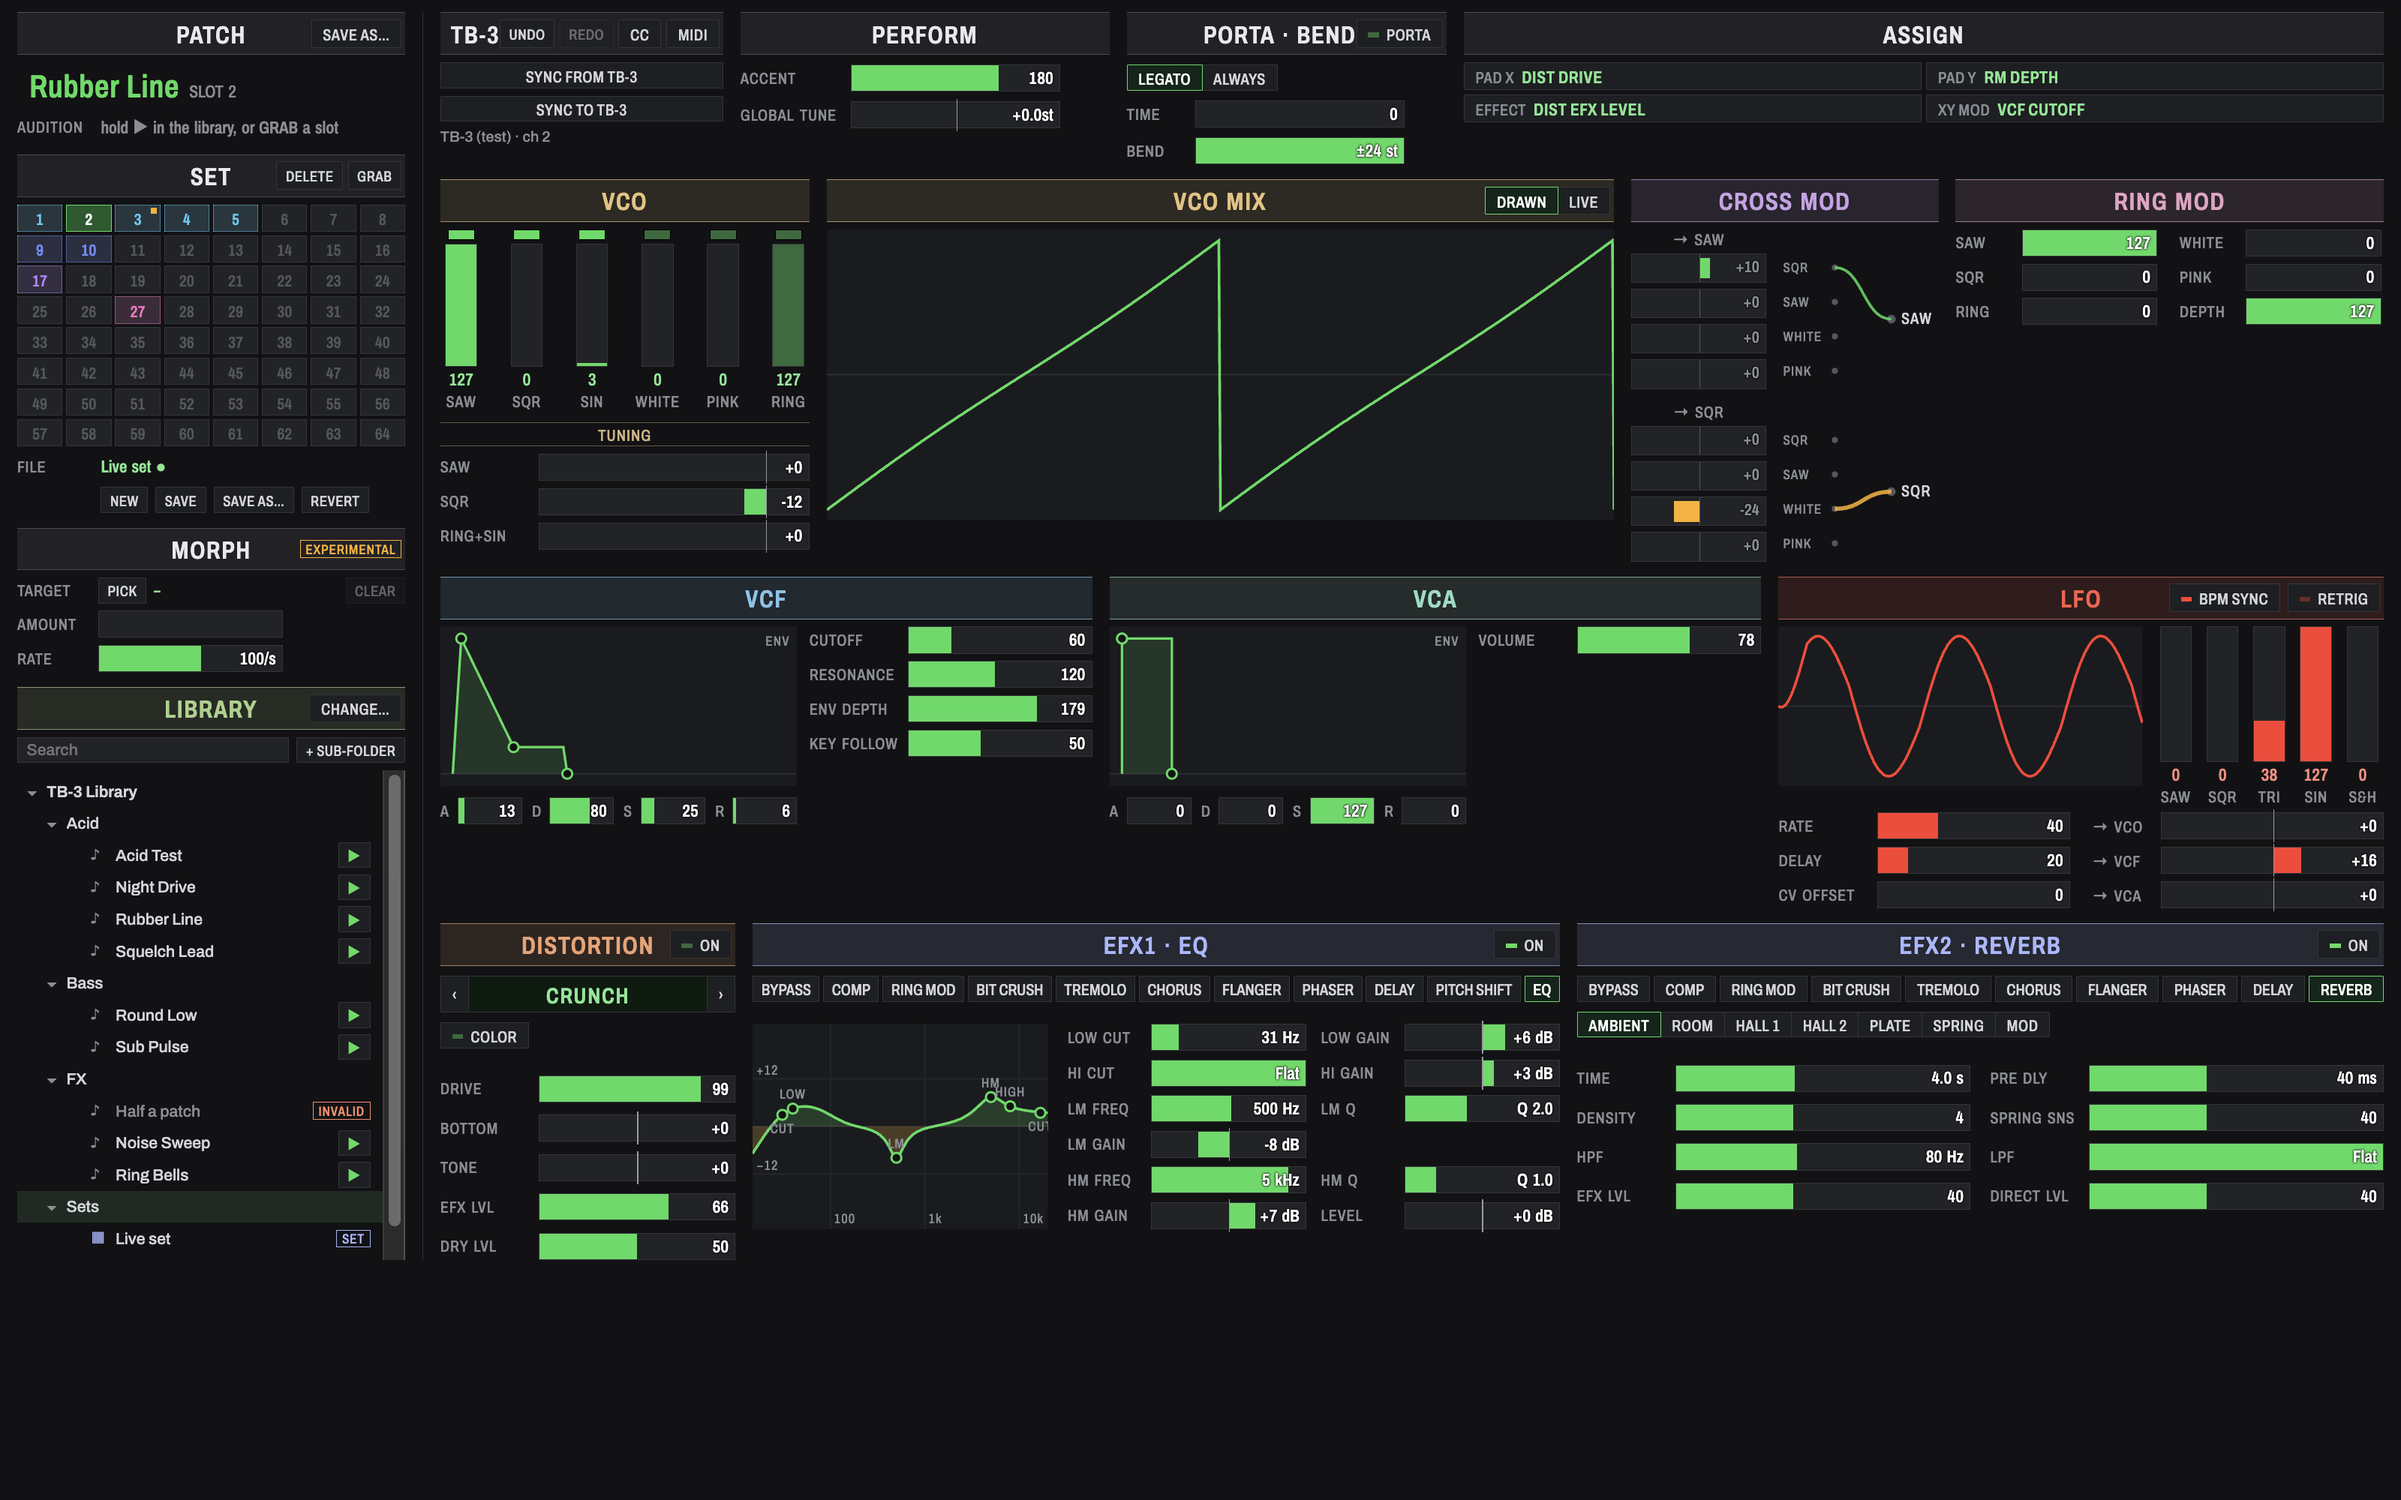
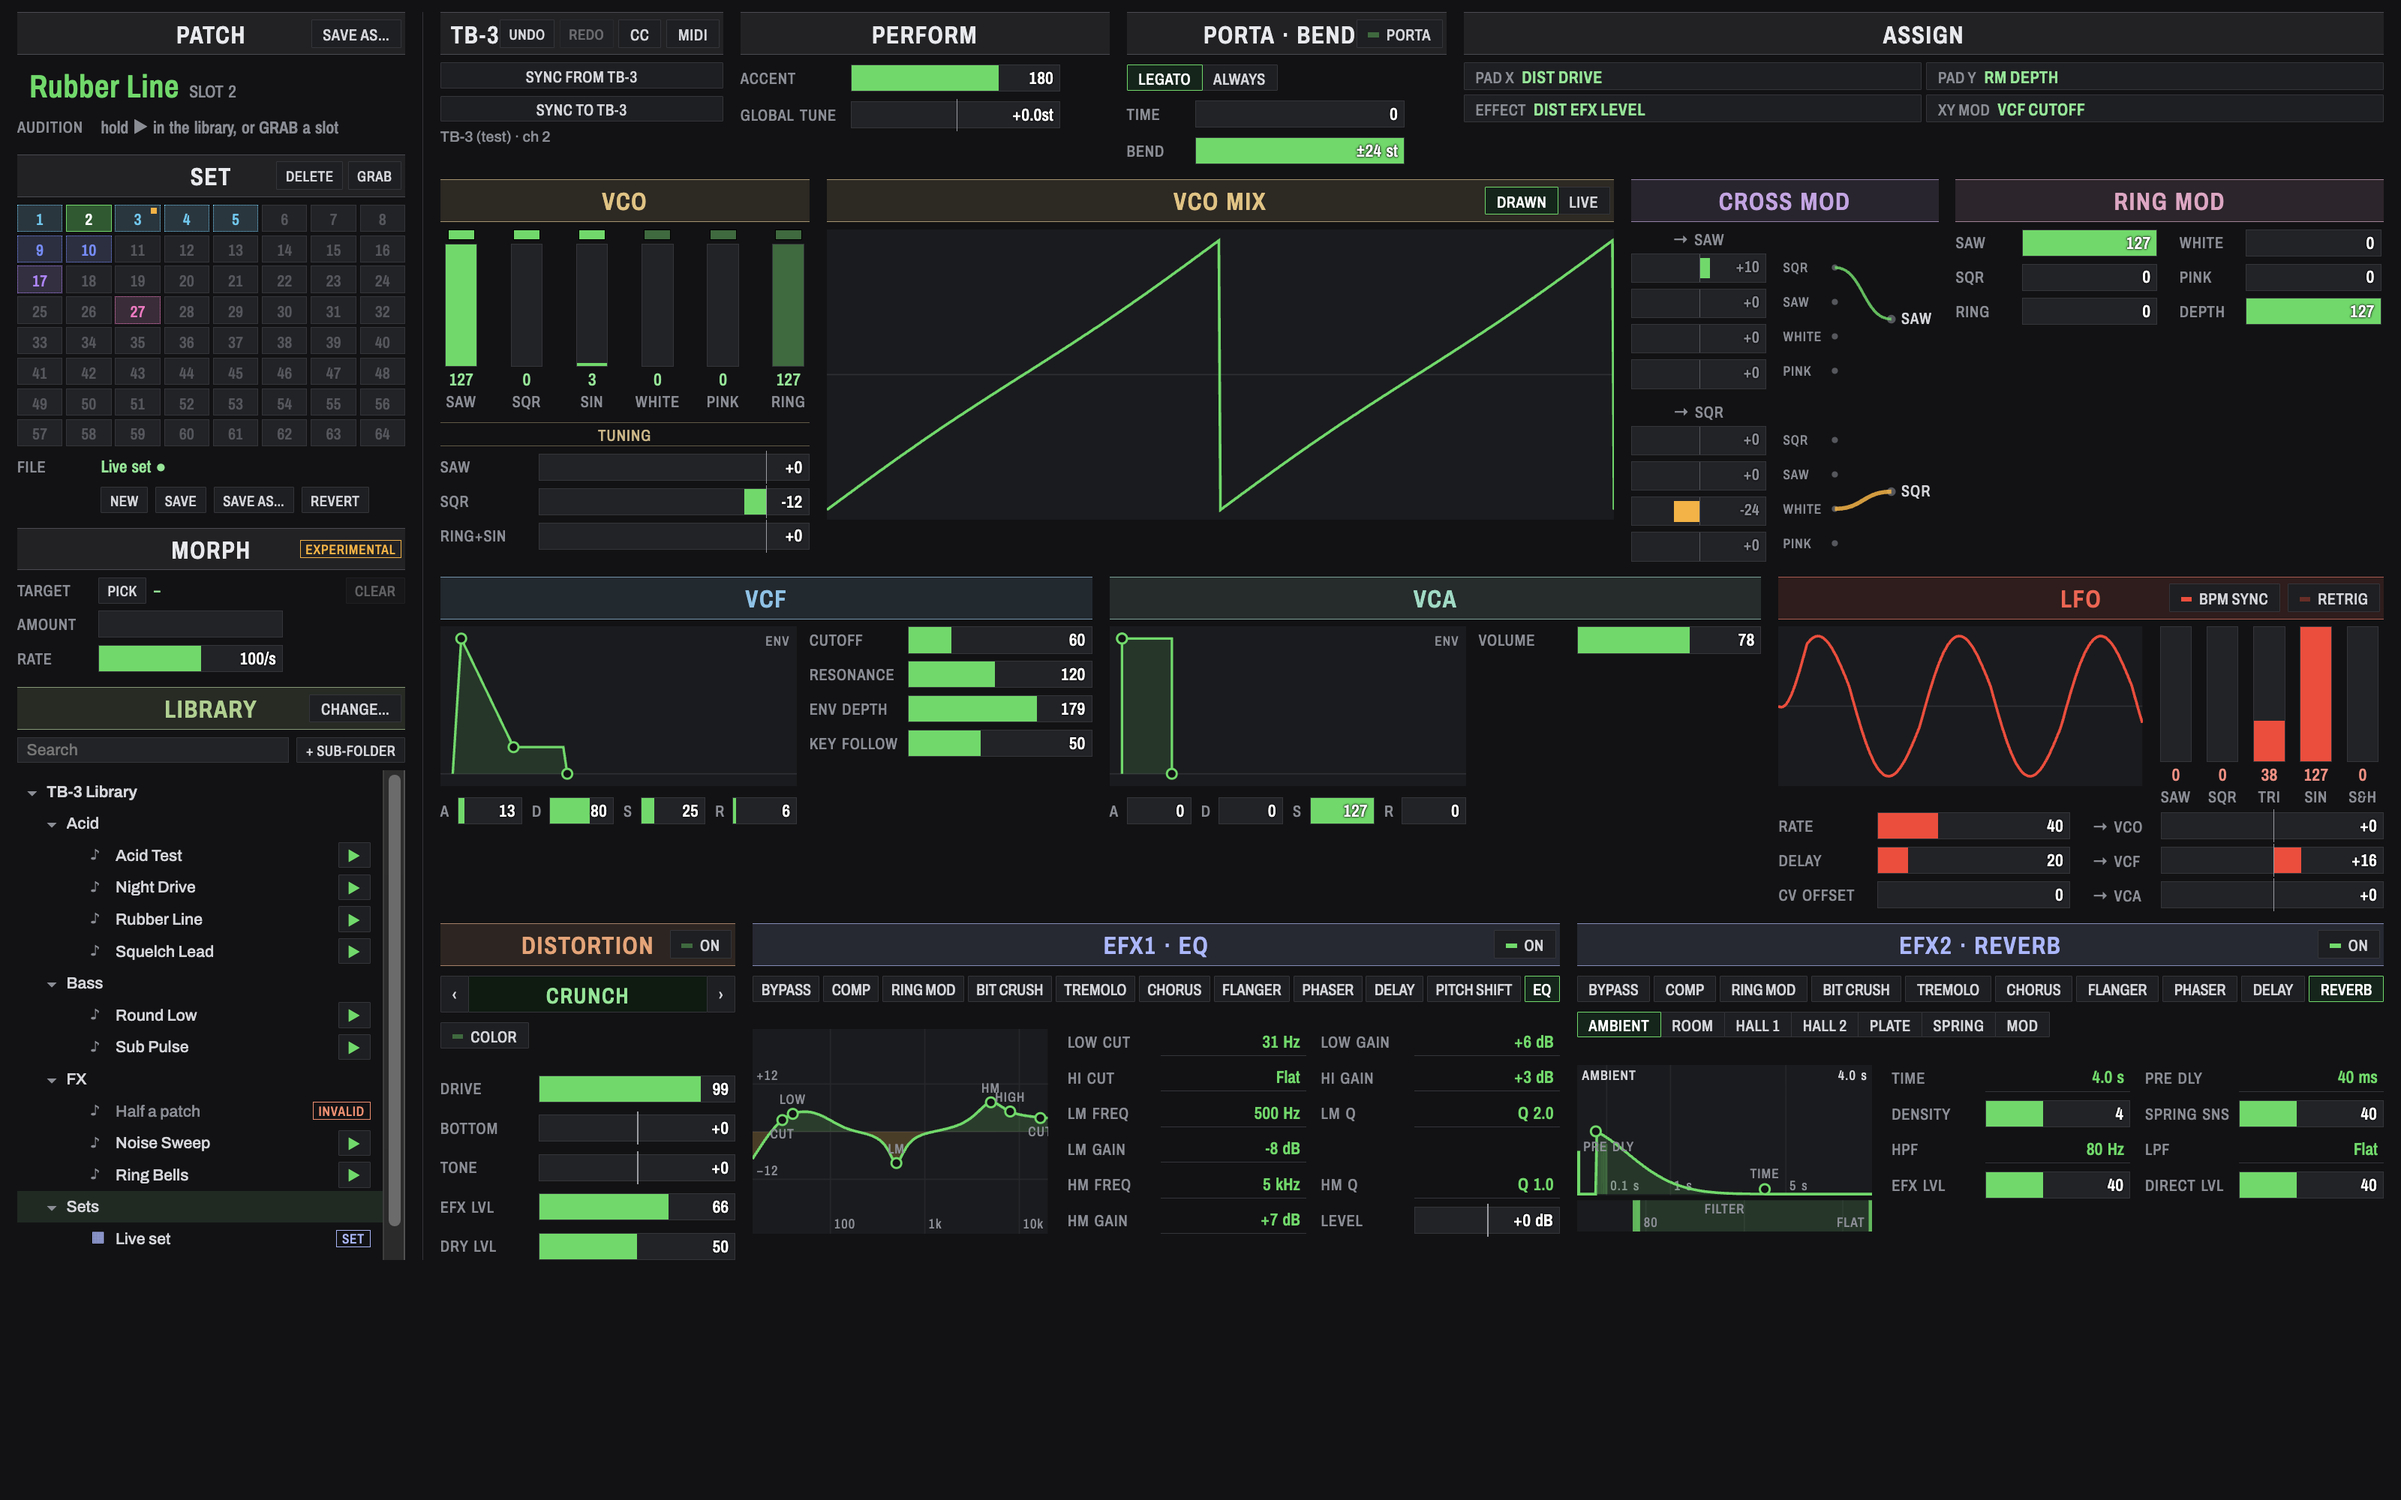
TB-3: user guide and design notes for the EFX drawings

Changed region(s): [[0.3125, 0.682, 1.0, 0.837]]

diff --git a/docs/tb3-efx-views.md b/docs/tb3-efx-views.md
@@ -1,0 +1,54 @@
+# TB-3 EFX drawings
+
+Each EFX type except BYPASS has a drawing beside its slots, borrowed from the SP-404 MK2 editor's effect views
+(`apps/sp404/src/fx/views/`) so the two editors look and behave alike. Slots set in a drawing show as readouts
+(name and value) instead of faders, as the SP-404's in-view parameters do. Every handle sends through the editor's
+`setEfxByte`, so a drag reaches the TB-3 (paced, undoable, morph- and CC-aware) exactly as a fader move does.
+
+## Code
+
+- `src/core/efxShapes.ts`: the pure maths: soft-knee compressor curve (real threshold, ratio and gain), tremolo
+  waves by TYPE with SHAPE, BPM SYNC divisions as bars, delay repeats by mode, the reverb tail's decay. Settings go in
+  as objects (CodeScene's primitive-argument rule). Tests beside it.
+- `src/ui/draw.tsx`: drawing parts after the SP-404's `views/draw.tsx` and `parts.tsx` (log frequency axis,
+  illustrative filter maths, response panel, filter band with draggable edges, handle, drag area, pads), drawn in the
+  TB-3's graph style (the EQ's well, grid and handle rings).
+- `src/ui/useHandleDrag.ts`: relative handle drags after the SP-404's `views/useHandleDrag.ts`, but each axis has
+  its own range (EFX slots run 0–5 … 0–127), crossed in a set number of layout px; Shift is fine, as everywhere.
+- `src/editor/efx/`: `viewContext.ts` (raw values, display text, drag axes and resets by byte offset), `parts.tsx`
+  (filter band, tone panel, drawing over a band), `dynamics.tsx`, `modulation.tsx`, `timePitch.tsx`, `eq.tsx`, and
+  `index.ts`, which maps each type name to its drawing and the slots set in it (a function, as DELAY's TAP TIME and
+  PITCH SHIFT's voice 2 depend on the mode).
+- `src/editor/EfxSection.tsx`: type buttons, mode buttons, then the drawing beside the slots.
+
+## The drawings
+
+| Type | Borrowed from (SP-404) | Set in the drawing |
+| --- | --- | --- |
+| COMP | CompressorView | THRESHOLD × GAIN, RATIO, ATTACK, RELEASE |
+| RING MOD | RingModView | FREQ × SENS, EQ LOW, EQ HIGH |
+| BIT CRUSH | CrusherView | SAMP RATE, FILTER, EQ LOW, EQ HIGH |
+| TREMOLO | TremoloPanView | TYPE (pads), RATE × DEPTH, PHASE |
+| CHORUS | ChorusView | RATE × DEPTH, HPF, LPF |
+| FLANGER | FlangerView | MANUAL × RESONANCE, HPF |
+| PHASER | PhaserView | MANUAL × RESONANCE |
+| DELAY | Sync Delay / Ko-Da-Ma taps | TIME (BPM SYNC when on, never down to OFF), FEEDBACK, LPF, TAP TIME in PAN |
+| PITCH SHIFT | ChromaticPsView | PITCH × PRE DLY for each voice |
+| EQ | (TB-3's own EqView) | every band setting but LEVEL |
+| REVERB | ReverbView | TIME, PRE DLY, HPF, LPF |
+
+Drawings are 240 px wide, 167 px tall (136 under a row of mode buttons).
+
+## Guesses to check on the hardware
+
+- BIT CRUSH: SAMP RATE drawn as coarser steps as it rises, FILTER as a low-pass opening as it rises (200 Hz–18 kHz).
+- RING MOD: UP / DOWN drawn as the direction SENS bends the carrier with the input's level.
+- COMP: soft knee 2 dB wide per KNEE step; the attack and release curves are only proportional to their values.
+- DELAY: TIME at its maximum drawn as half a bar; TAP TIME as where PAN's left repeat falls within the time.
+- TREMOLO: SHAPE drawn as squaring the wave up; PHASE as the right channel lagging the left.
+
+## Follow-ups
+
+- `ui/draw.tsx` and `ui/useHandleDrag.ts` are close copies of the SP-404's; once both editors settle, move them
+  into a shared package (`packages/fx-draw`, say) with the style classes as a stylesheet.
+- EFX parameters still aren't CC-learnable (they aren't `ParamDef`s).

diff --git a/apps/tb3/docs/user-guide.md b/apps/tb3/docs/user-guide.md
@@ -162,8 +162,32 @@ speakers the way it always has. Whether DRAWN or LIVE is selected, and which LIV
   ![The distortion types](images/distortion-types.png)
 
 - **EFX1 and EFX2**: pick the effect type from the row of buttons. ON switches the effect in.
-  The settings below change with the type; some types also have mode buttons, like the reverb's
-  AMBIENT, ROOM and HALL. Settings that the current mode doesn't use are dimmed.
+  Some types also have mode buttons, like the reverb's AMBIENT, ROOM and HALL. Every type but
+  BYPASS has a picture of what it does, on the left, with handles to drag. A setting you change in
+  the picture shows as its name and value on the right; the other settings keep their faders.
+  Settings that the current mode doesn't use are dimmed.
+  - Drag a handle the way its cursor shows: sideways, up and down, or both. Hold Shift for fine
+    steps, and double-click a handle to reset it.
+  - Some pictures are dragged as a whole: the tremolo's and chorus's waves (sideways for RATE, or
+    the BPM SYNC division when it's on; up and down for DEPTH) and the bit crusher's sine
+    (sideways for SAMP RATE).
+  - Filter bands (HPF and LPF) run along the bottom of the delay, chorus and reverb pictures:
+    drag either edge.
+
+  | Type | The picture | Its handles |
+  | --- | --- | --- |
+  | COMP | Output level against input, and the gain reduction after a loud note | THRESHOLD (up and down for GAIN), RATIO, ATTACK, RELEASE |
+  | RING MOD | The carrier under a fading note, which bends it UP or DOWN; the EQ below | FREQ · SENS, EQ LOW, EQ HIGH |
+  | BIT CRUSH | A sine and its sampled copy; the filter and EQ below | SAMP RATE (drag the sine), FILTER, EQ LOW, EQ HIGH |
+  | TREMOLO | TYPE buttons over one bar of the wave; the right channel is dashed | TYPE, RATE · DEPTH (drag the wave), PHASE |
+  | CHORUS | The voices' movement over a bar; the filter band below | RATE · DEPTH (drag the wave), HPF, LPF |
+  | FLANGER, PHASER | The comb or notches the effect sweeps; shading shows DEPTH | MANUAL · RESO, and the flanger's HPF |
+  | DELAY | The repeats over a bar; PAN and STEREO put the left above the line and the right below | TIME (or the BPM SYNC division), FEEDBACK, PAN's TAP, LPF |
+  | PITCH SHIFT (EFX1) | Each voice's pitch (±24 semitones) against its pre-delay; FEEDBACK echoes voice 1 | voice 1 and voice 2 |
+  | EQ (EFX1) | The frequency response | a handle for each band (below) |
+  | REVERB (EFX2) | The tail, where it starts (PRE DLY) and dies away (TIME) | PRE DLY, TIME, HPF, LPF |
+
+  The pictures make the settings easy to read; they aren't measurements of the TB-3's sound.
 - **EQ** (EFX1 only) shows its frequency response, with a handle for each band:
   - Drag a handle sideways to change its frequency, or up and down to change its gain.
   - Scroll over a mid band's handle to change its width (Q).
